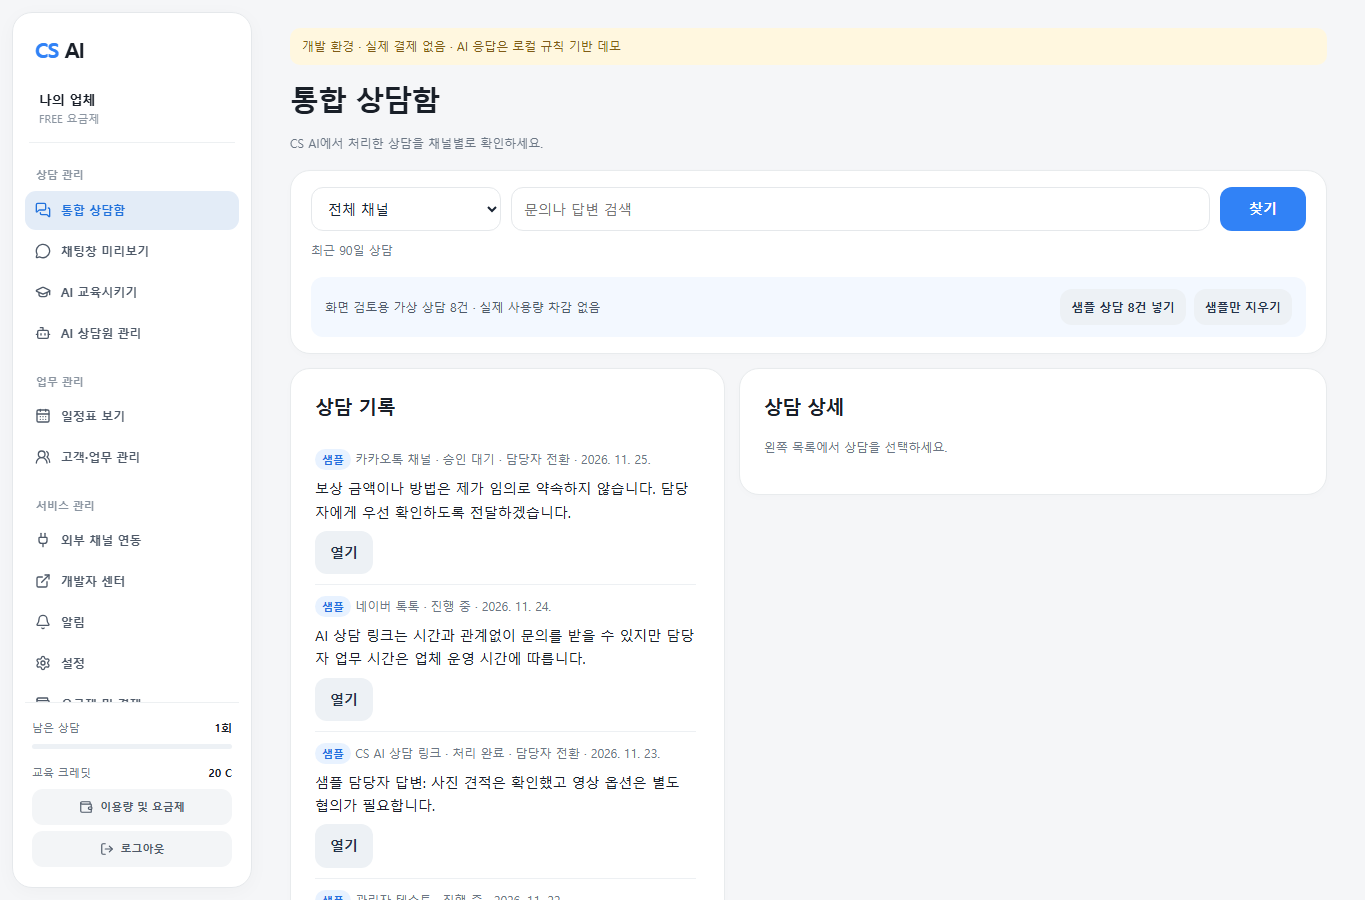
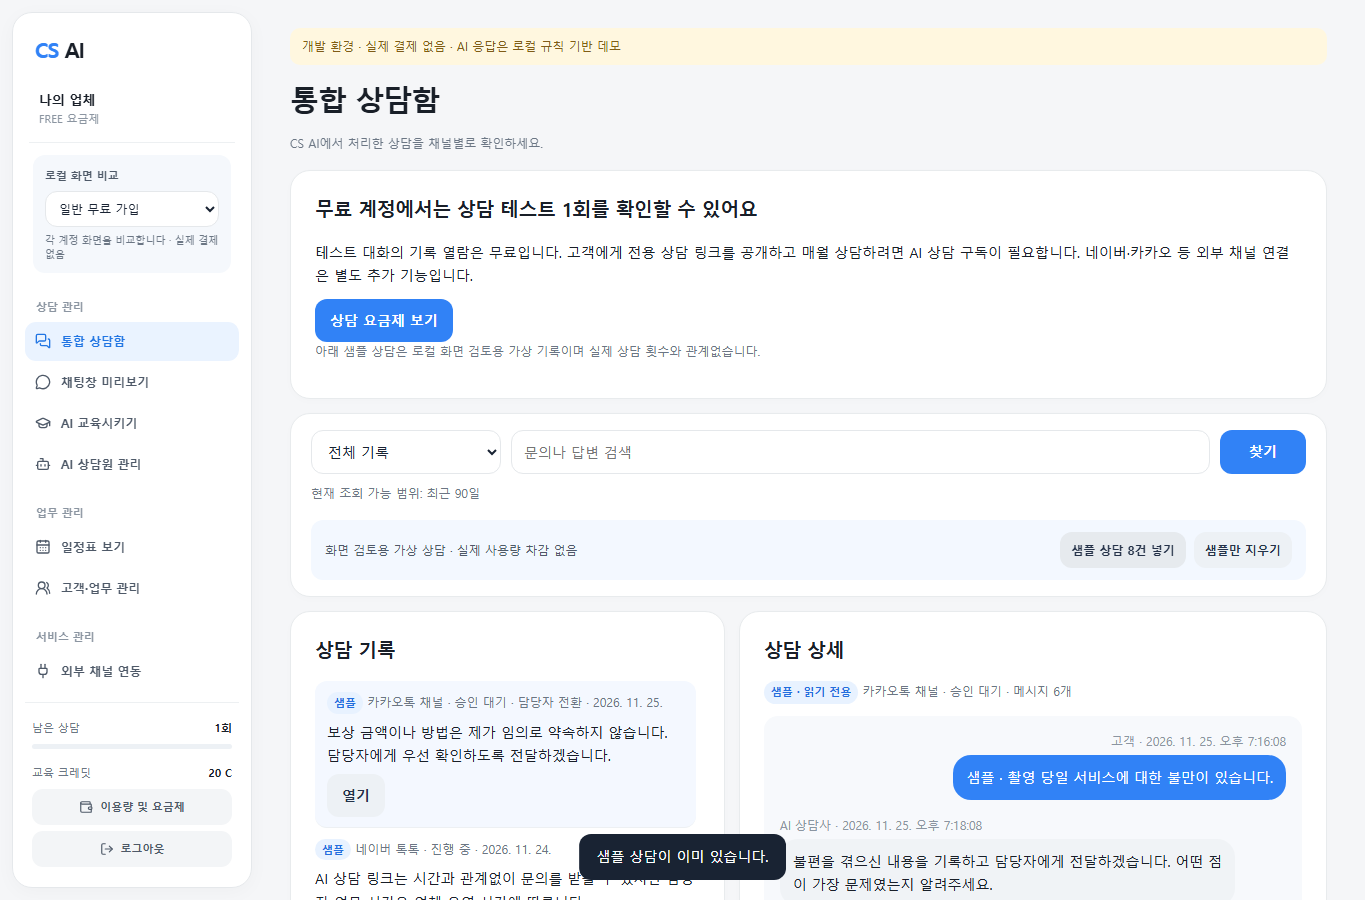
clarify free inbox and paid access

diff --git a/tests/live_ui_smoke.py b/tests/live_ui_smoke.py
@@ -67,7 +67,14 @@ with sync_playwright() as pw:
     desktop.get_by_role("heading", name="통합 상담함").wait_for()
     assert desktop.locator("#inbox-kind").count() == 1
     assert desktop.locator("#inbox-q").count() == 1
+    assert desktop.locator("#inbox-kind").input_value() == "customer"
+    desktop.get_by_role("heading", name="무료 계정에서는 상담 테스트 1회를 확인할 수 있어요").wait_for()
+    desktop.locator("#inbox-kind").select_option("all")
+    desktop.get_by_role("button", name="찾기").click()
     desktop.locator(".inbox-entry").first.wait_for()
+    if desktop.locator(".inbox-entry").count() < 8:
+        desktop.get_by_role("button", name="샘플 상담 8건 넣기").click()
+        desktop.wait_for_function("document.querySelectorAll('.inbox-entry').length >= 8")
     assert desktop.locator(".inbox-entry").count() >= 8
     assert desktop.locator(".sample-tag").count() >= 8
     desktop.wait_for_timeout(500)
@@ -151,6 +158,12 @@ with sync_playwright() as pw:
     mobile.get_by_role("button", name="메뉴 열기").click()
     mobile.locator(".app-sidebar").get_by_role("button", name="통합 상담함").click()
     mobile.get_by_role("heading", name="통합 상담함").wait_for()
+    mobile.get_by_role("heading", name="무료 계정에서는 상담 테스트 1회를 확인할 수 있어요").wait_for()
+    mobile.locator("#inbox-kind").select_option("all")
+    mobile.get_by_role("button", name="찾기").click()
+    if mobile.locator(".inbox-entry").count() < 8:
+        mobile.get_by_role("button", name="샘플 상담 8건 넣기").click()
+        mobile.wait_for_function("document.querySelectorAll('.inbox-entry').length >= 8")
     assert mobile.locator(".inbox-entry").count() >= 8
     mobile.locator(".inbox-entry").last.get_by_role("button", name="열기").click()
     mobile.get_by_text("메시지 22개").wait_for()

diff --git a/FEATURE_CHECKLIST.md b/FEATURE_CHECKLIST.md
@@ -93,4 +93,6 @@
 
 2026-11-26 로컬 화면 비교: 무료 가입(첫 상담 1회), LITE 유료 구독 예시(300회·추가 기능 없음), 개발 검수(로컬 구현 추가 기능)를 별도 데모 작업공간으로 전환합니다. 개발 검수는 판매 요금제나 운영자 계정이 아니고 실제 결제도 없습니다. Google/실사용자 또는 외부 주소에서는 전환할 수 없습니다. 기존 요금표는 변경하지 않았습니다. 전체 Python 테스트 88개 및 PC·모바일 브라우저 검수 통과.
 
+2026-11-26 무료 상담함 안내: 무료 계정의 최초 상담 테스트 1회 기록은 열람 가능하지만, 공개 상담 링크와 월 상담량은 유료 구독이 필요하다는 안내와 요금제 이동 버튼을 통합 상담함에 표시합니다. 외부 채널은 별도 옵션임을 구분합니다. 전체 기능 비교표의 무료 `상담 내역 열람`을 `1회 테스트 기록`으로 바로잡았습니다. 기존 상품 가격은 변경하지 않았습니다. Python 테스트 89개와 PC·모바일 브라우저 검수 통과.
+
 추가 안정화: 예약 관리자 등록·변경·취소·완료 알림 및 수동 상담 첫 문의 알림 추가. 실제 이메일은 확인된 Google 계정 주소만 허용하며 개발 모드에서는 모의 발송. 워커 서비스별 오류를 분리해 다른 자동 작업이 계속 실행되도록 변경. 회귀 테스트를 추가했으나 전체 실행 결과는 아직 검증하지 못했습니다.
